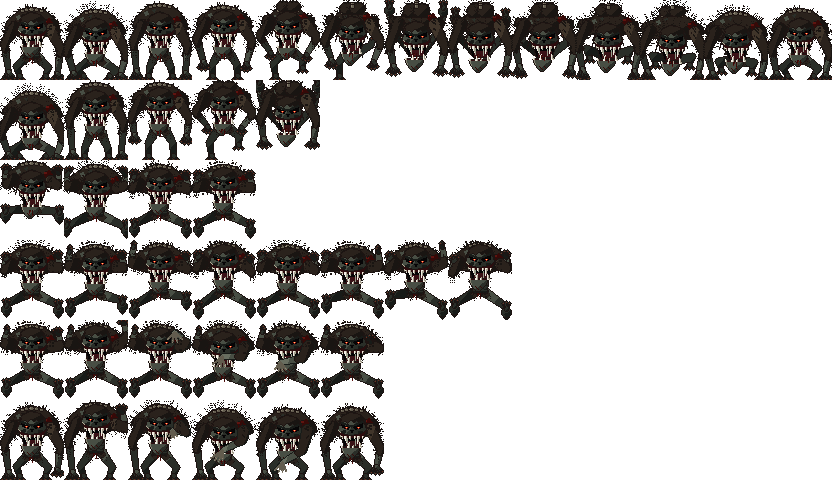
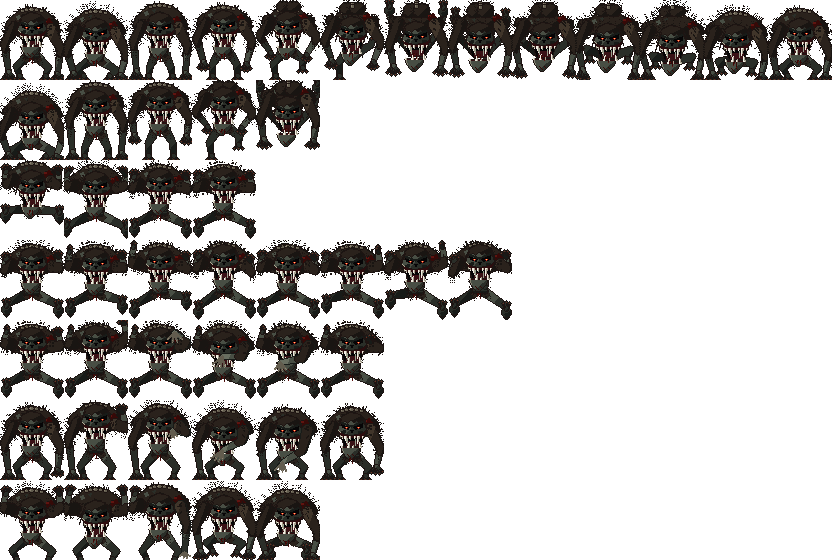
Give the window loper a 5-frame front-on pull-in through the window (sheet row 6, clip enter, 6 fps, held on the crouch frame) played while it is ENTERING, so it reads as hauling itself over the sill and dropping into the cabin instead of running through the wall.
Claude-Session: https://claude.ai/code/session_01UN2h5Pw9Evs1XF9Msqb37E

diff --git a/tools/gen_enemy_sprites.py b/tools/gen_enemy_sprites.py
@@ -5,10 +5,10 @@ dark. The door raider is a humanoid gone feral: a hunched loper whose head
 hangs forward out of a furred ruff, tapered arms longer than the legs with
 the claws on the van floor, hair that trails every bob, knobbed spine,
 hanging jaw, corpse-grey skin and black eye pits, nothing bright. The loper is both the door raider and the window
-raider. door_raider.png is a 13-frame 832 x 480 sheet: row 0 the 13-frame run (a bounding charge,
+raider. door_raider.png is a 13-frame 832 x 560 sheet: row 0 the 13-frame run (a bounding charge,
 seen from the front; frame 0 is the still), row 1 the 5-frame jump take-off, row 2 a 4-frame
 front-on latch onto the van wall (reach, impact, cling), row 3 an 8-frame front-on wall crawl
-(diagonal pairs, looping), row 4 a 6-frame front-on bar rake (hold on left, rake right), row 5 a 6-frame front-on on-foot claw swipe (left paw braced, right paw strikes). Every frame has the
+(diagonal pairs, looping), row 4 a 6-frame front-on bar rake (hold on left, rake right), row 5 a 6-frame front-on on-foot claw swipe (left paw braced, right paw strikes), row 6 a 5-frame front-on enter (pulls in through the window). Every frame has the
 feral face (draw_feral_head), riding the pose's head bob and jaw lag.
 
 Art rules (.claude/rules/art-style.md, pixel art): native size, one image
@@ -22,7 +22,7 @@ deterministic. Usage:
     py -3 tools/gen_enemy_sprites.py              # writes scenes/enemies/*.png
     py -3 tools/gen_enemy_sprites.py --preview D  # also 6x previews in D
     py -3 tools/gen_enemy_sprites.py --out D      # draft somewhere else first
-    py -3 tools/gen_enemy_sprites.py --strip P    # run 0, then the latch, climb, rake and swipe frames in one 6x PNG
+    py -3 tools/gen_enemy_sprites.py --strip P    # run 0, then the latch, climb, rake, swipe and enter frames in one 6x PNG
 """
 from __future__ import annotations
 
@@ -39,12 +39,13 @@ OUT = ROOT / "scenes" / "enemies"
 # Canvas size: the loper (door and window raider) is 1.54 x 1.92 m.
 LOPER_SIZE = (64, 80)
 LOPER_FRAMES = 13
-LOPER_ROWS = 6
+LOPER_ROWS = 7
 JUMP_FRAMES = 5
 LATCH_FRAMES = 4
 CLIMB_FRAMES = 8
 RAKE_FRAMES = 6
 SWIPE_FRAMES = 6
+ENTER_FRAMES = 5
 LOPER_SHEET = (LOPER_SIZE[0] * LOPER_FRAMES, LOPER_SIZE[1] * LOPER_ROWS)
 
 OUTLINE = (30, 20, 18)
@@ -626,6 +627,38 @@ LOPER_SWIPE_POSES = [
 ]
 assert len(LOPER_SWIPE_POSES) == SWIPE_FRAMES
 
+# Row 6 of the sheet: the loper pulls itself in through a van window toward the player, front-on
+# like the run (never a side view, never flipped). Frame 0 hang: both paws high and wide on the
+# sill, head low between the arms, legs dangling low outside. Frame 1 duck: head and shoulders
+# duck forward, head bigger and lower, elbows bent out, paws still high. Frame 2 chest through:
+# body higher, the right paw reaching down to the floor, the left still pulling on the sill.
+# Frame 3 hips over: body dropping, both arms down and forward, legs bent up under the body.
+# Frame 4 landing: crouched, soles down at the cell bottom, knees wide, paws planted; it reads
+# as the start of the prowl row (run frame 1 crouch numbers). The right arm draws in front on 2.
+LOPER_ENTER_POSES = [
+	dict(by=2, hump_dy=-1, head_dy=3, shoulder_dx=2, lag=1,  # 0 hang on the sill
+		left=((3, 28), (5, 14), [(2, 9), (4, 7), (7, 7), (10, 9)]),
+		right=((60, 28), (59, 14), [(62, 9), (60, 7), (57, 7), (54, 9)]),
+		legs=(((12, 70), (16, 78)), ((52, 71), (48, 78)))),
+	dict(by=1, hump_dy=-1, head_dy=7, shoulder_dx=3, lag=2,  # 1 duck forward
+		left=((1, 30), (5, 13), [(2, 8), (4, 6), (7, 6), (10, 8)]),
+		right=((62, 30), (59, 13), [(62, 8), (60, 6), (57, 6), (54, 8)]),
+		legs=(((12, 70), (16, 78)), ((52, 71), (48, 78)))),
+	dict(by=-3, hump_dy=0, head_dy=4, shoulder_dx=2, right_front=True, lag=2,  # 2 chest through
+		left=((4, 28), (6, 14), [(3, 9), (5, 7), (8, 7), (11, 9)]),
+		right=((58, 44), (56, 72), [(51, 76), (55, 78), (59, 78), (62, 76)]),
+		legs=(((14, 70), (18, 78)), ((50, 71), (46, 78)))),
+	dict(by=0, hump_dy=0, head_dy=3, shoulder_dx=1, lag=2,  # 3 hips over, dropping
+		left=((3, 46), (8, 70), [(2, 77), (6, 78), (10, 78), (14, 77)]),
+		right=((61, 48), (56, 71), [(51, 77), (55, 78), (59, 78), (62, 76)]),
+		legs=(((14, 62), (20, 70)), ((50, 63), (44, 71)))),
+	dict(by=3, hump_dy=-1, head_dy=3, shoulder_dx=1, lag=1,  # 4 crouched landing
+		left=((2, 49), (9, 72), [(3, 79), (7, 79), (11, 79), (15, 78)]),
+		right=((62, 53), (56, 74), [(51, 78), (55, 79), (59, 79), (63, 78)]),
+		legs=(((8, 66), (14, 79)), ((56, 67), (50, 79))), soles=True),
+]
+assert len(LOPER_ENTER_POSES) == ENTER_FRAMES
+
 
 def fur_sway(frame: int, poses=LOPER_POSES) -> tuple[int, int]:
 	"""Overlap and follow-through: the hair lags the body by a frame."""
@@ -881,7 +914,8 @@ def draw_loper(frame: int = 0, poses=LOPER_POSES) -> Canvas:
 def draw_loper_sheet() -> Canvas:
 	"""Row 0 the thirteen run frames, row 1 the five jump take-off frames, row 2 the four
 	latch frames, row 3 the eight climb frames, row 4 the six rake frames, row 5 the six
-	on-foot swipe frames, each cell exactly LOPER_SIZE."""
+	on-foot swipe frames, row 6 the five enter frames (pulls in through the window), each
+	cell exactly LOPER_SIZE."""
 	sheet = Canvas(LOPER_SHEET)
 	for i in range(LOPER_FRAMES):
 		sheet.blit(draw_loper(i), i * LOPER_SIZE[0])
@@ -895,6 +929,8 @@ def draw_loper_sheet() -> Canvas:
 		sheet.blit(draw_loper(i, LOPER_RAKE_POSES), i * LOPER_SIZE[0], LOPER_SIZE[1] * 4)
 	for i in range(SWIPE_FRAMES):
 		sheet.blit(draw_loper(i, LOPER_SWIPE_POSES), i * LOPER_SIZE[0], LOPER_SIZE[1] * 5)
+	for i in range(ENTER_FRAMES):
+		sheet.blit(draw_loper(i, LOPER_ENTER_POSES), i * LOPER_SIZE[0], LOPER_SIZE[1] * 6)
 	return sheet
 
 
@@ -912,7 +948,7 @@ def main() -> None:
 	ap = argparse.ArgumentParser()
 	ap.add_argument("--preview", help="folder for 6x nearest previews")
 	ap.add_argument("--out", help="write the PNGs here instead of scenes/enemies")
-	ap.add_argument("--strip", help="write one 6x PNG of run 0, then the latch, climb, rake and swipe frames")
+	ap.add_argument("--strip", help="write one 6x PNG of run 0, then the latch, climb, rake, swipe and enter frames")
 	args = ap.parse_args()
 	out = Path(args.out) if args.out else OUT
 	out.mkdir(parents=True, exist_ok=True)
@@ -928,10 +964,11 @@ def main() -> None:
 
 
 def write_strip(sheet: Image.Image, path: Path) -> None:
-	"""Run frame 0, then the latch, climb, rake and swipe frames in one row at 6x, 2 px gaps."""
+	"""Run frame 0, then the latch, climb, rake, swipe and enter frames in one row at 6x, 2 px gaps."""
 	w, h = LOPER_SIZE
 	cells = [(0, 0)] + [(i, 2) for i in range(LATCH_FRAMES)] + [(i, 3) for i in range(CLIMB_FRAMES)] \
-		+ [(i, 4) for i in range(RAKE_FRAMES)] + [(i, 5) for i in range(SWIPE_FRAMES)]
+		+ [(i, 4) for i in range(RAKE_FRAMES)] + [(i, 5) for i in range(SWIPE_FRAMES)] \
+		+ [(i, 6) for i in range(ENTER_FRAMES)]
 	scale = 6
 	gap = 2
 	strip = Image.new("RGBA", (len(cells) * (w * scale + gap) - gap, h * scale), (40, 40, 40, 255))

diff --git a/.claude/rules/art-style.md b/.claude/rules/art-style.md
@@ -283,7 +283,7 @@ target; its grid is not (it is upscaled about 3.2x off any exact grid).
 **Creepy, not cute** (owner, 2026-10-01, second pass): the raiders are Darkest
 Dungeon dark, never bright or rounded. The door raider is a humanoid gone
 feral, the loper: a 64 x 80 frame (1.54 x 1.92 m, claws on the van floor) on a
-832 x 480 sheet (row 0 the thirteen-frame run; row 1 a five-frame front-on jump take-off (the run's rising half, pushed further), frames J0-J3 keep a claw row on the floor row and J4 is airborne; row 2 a four-frame latch, clip `latch`: reach, impact, pull in, cling; row 3 an eight-frame front-on wall crawl, clip `climb`, diagonal pairs (left fore paw with right hind foot, then the mirror), never flipped; row 4 a six-frame bar rake, clip `rake`, a window loper's swing at the bars (ready, wind-up, strike, impact at frame 3, recoil, recover); row 5 a six-frame on-foot claw swipe, clip `swipe`, inside the van (left paw braced on the floor, legs planted, right paw rears up and strikes down across the body at the viewer, impact at frame 3); animation is frame-swapping on one sheet,
+832 x 560 sheet (row 0 the thirteen-frame run; row 1 a five-frame front-on jump take-off (the run's rising half, pushed further), frames J0-J3 keep a claw row on the floor row and J4 is airborne; row 2 a four-frame latch, clip `latch`: reach, impact, pull in, cling; row 3 an eight-frame front-on wall crawl, clip `climb`, diagonal pairs (left fore paw with right hind foot, then the mirror), never flipped; row 4 a six-frame bar rake, clip `rake`, a window loper's swing at the bars (ready, wind-up, strike, impact at frame 3, recoil, recover); row 5 a six-frame on-foot claw swipe, clip `swipe`, inside the van (left paw braced on the floor, legs planted, right paw rears up and strikes down across the body at the viewer, impact at frame 3); row 6 a five-frame climb in over the sill, clip `enter`, played while a window loper is ENTERING (6 fps, holds the last frame); animation is frame-swapping on one sheet,
 never a node tween: a bounding charge seen from the front at 18 fps, crouch,
 push, paws-rise, lift-off, tip-over, kick, fall, drop, reach, rump-down, land,
 gather; the kick, fall and drop frames are airborne, the kick 4 px off the floor

diff --git a/.claude/rules/enemies-and-breaching.md b/.claude/rules/enemies-and-breaching.md
@@ -31,8 +31,8 @@ The points live in `scenes/van/van_breach_points.tscn`, instanced at `VanRig/Ene
 ## Beast sprites and hitboxes
 
 - `scenes/enemies/window_raider.tscn` holds the door raider, a hunched humanoid
-  feral (the loper): `Sprite3D` at `pixel_size 0.024` on `door_raider.png`, an 832 x 400 sheet:
-  row 0 thirteen 64 x 80 run frames, row 1 a 5-frame jump take-off (`hframes 13, vframes 6`;
+  feral (the loper): `Sprite3D` at `pixel_size 0.024` on `door_raider.png`, an 832 x 560 sheet:
+  row 0 thirteen 64 x 80 run frames, row 1 a 5-frame jump take-off (`hframes 13, vframes 7`;
   clip `jump`, 15 fps, no loop, plays on JUMPING), row 2 a 4-frame latch (clip `latch`, 10 fps,
   no loop: starts `LATCH_START` 0.55 s into a jump to the wall and holds its cling frame through
   GRIPPING only; a drop-off jump never latches, front-on like the run, never flipped), row 3 an
@@ -43,9 +43,10 @@ The points live in `scenes/van/van_breach_points.tscn`, instanced at `VanRig/Ene
   lands with it; door lopers never rake), row 5 a 6-frame on-foot claw swipe (clip `swipe`,
   12 fps, no loop: the one in-van attack for both ATTACKING_BENCH and ATTACKING_PLAYER,
   `start_swipe` called from `_attack_loop` `swipe_lead_seconds` 0.25 s before each hit so impact
-  frame 3 lands with it; agile non-boss only); each 1.54 x 1.92 m; frame 0 is the still,
+  frame 3 lands with it; agile non-boss only), row 6 a 5-frame climb in over the sill (clip `enter`, 6 fps, no loop, holds
+  the last frame: played while a window loper is ENTERING); each 1.54 x 1.92 m; frame 0 is the still,
   `window_raider_anim.gd` is a clip player: named clips in `CLIPS` (sheet row, frames, fps,
-  loop; `still`, `run`, `prowl`, `jump`, `latch`, `climb`, `rake`, `swipe` so far) set `frame_coords`, a new animation adds a sheet row
+  loop; `still`, `run`, `prowl`, `jump`, `latch`, `climb`, `rake`, `swipe`, `enter` so far) set `frame_coords`, a new animation adds a sheet row
   (`SHEET_ROWS`) and a clip, and `_die` plays a `death` clip, when one exists, before the
   sink and fade; `run` steps at 18 fps while the raider moves and `still` rests
   it on 0, frames 6 to 8 are airborne, 6 the kick; the boss sets `hframes 1`), centred 0.66 m below the node so its claws
